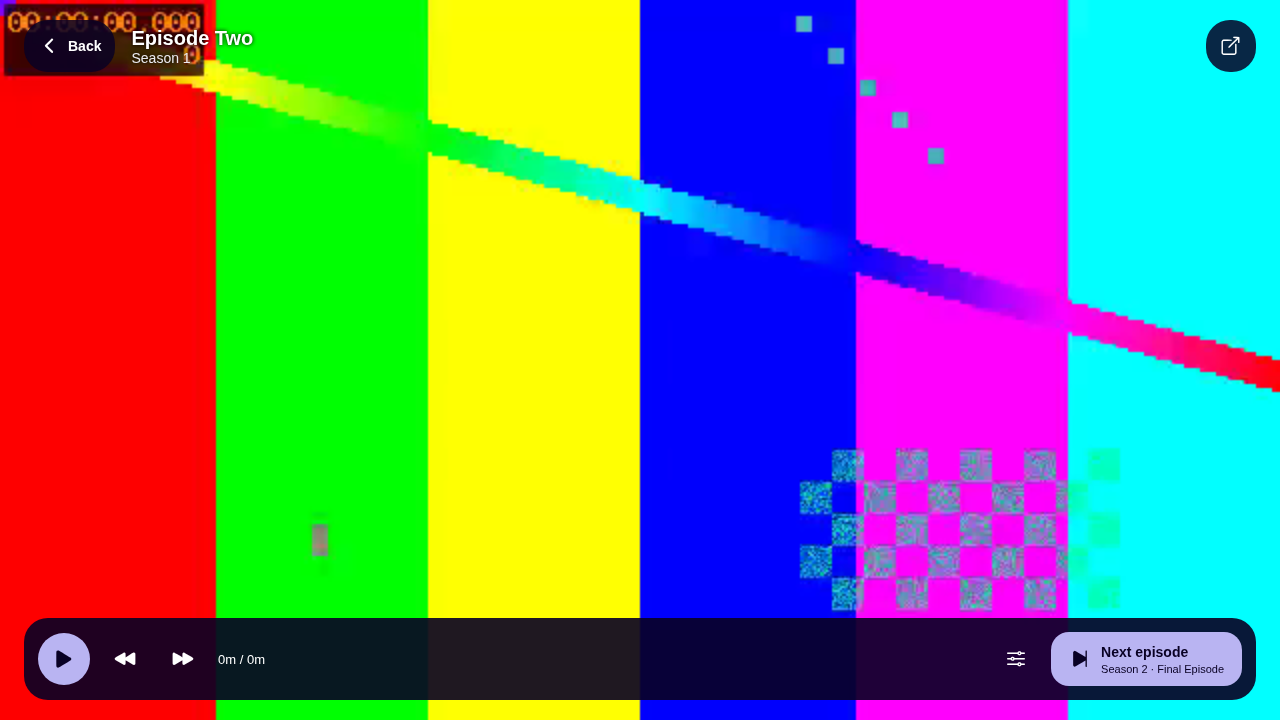
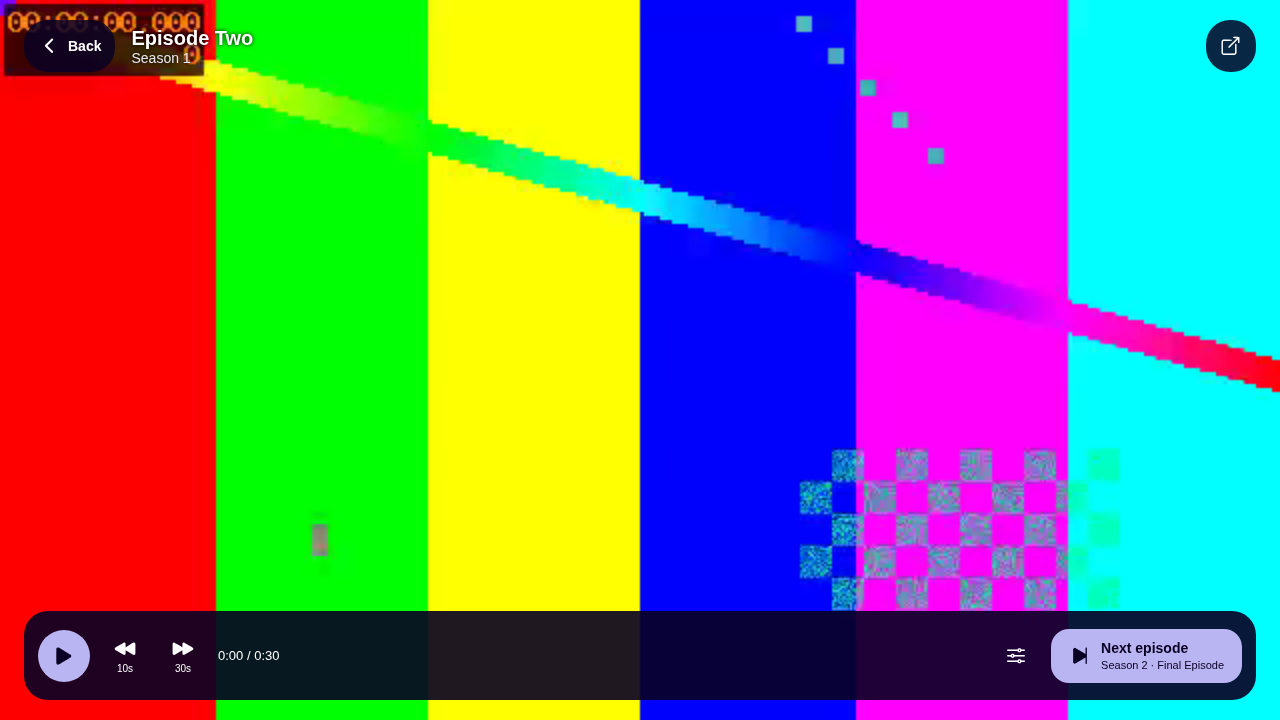
Refine fullscreen TV playback clock and seek controls

Changed region(s): [[0.0, 0.825, 1.0, 0.9778], [0.7812, 0.8861, 0.8125, 0.9167]]

diff --git a/src/Player.tsx b/src/Player.tsx
@@ -9,7 +9,7 @@ import { classifyFailure, failureMessage, RecoveryCoordinator } from './recovery
 import type { RecoveryState } from './recovery';
 import { playbackURLs, streamFormat } from './livePlayback';
 import { useSafeAreaInsets } from 'react-native-safe-area-context';
-import { timeLabel } from './activity';
+import { playbackClock } from './activity';
 import { Button, Icon, colors, u } from './ui';
 // Keep the native/video surface stable while status/format controls rerender.
 // On web, rerendering a changed src during replaceAsync can cancel the play request.
@@ -102,7 +102,7 @@ export default function Player({ item, resumeAt = 0, tracks = {}, onProgress, on
       if (!active || handoff.current) return;
       setStatus(value); clearLoadTimer();
       if (value === 'readyToPlay') {
-        if (television) setIsPlaying(player.playing);
+        if (television) { setIsPlaying(player.playing); setClock({ position: lastSnapshot.current.position, duration: Number.isFinite(player.duration) ? player.duration : 0 }); }
         coordinator.ready(); setRecovery(null);
         if (needsSeek.current && Number.isFinite(player.duration) && player.duration > 5 && !player.isLive) {
           player.currentTime = Math.max(0, Math.min(desiredSeek.current, player.duration - 5)); needsSeek.current = false;
@@ -193,9 +193,9 @@ export default function Player({ item, resumeAt = 0, tracks = {}, onProgress, on
     </View>}
     <View style={{ position: 'absolute', bottom: Math.max(insets.bottom, 20), left: 24, right: 24, padding: 14, borderRadius: 24, backgroundColor: '#090124E8', flexDirection: 'row', gap: 12, alignItems: 'center' }}>
       <Pressable hasTVPreferredFocus accessibilityRole="button" accessibilityLabel={isPlaying ? 'Pause video' : 'Play video'} disabled={failed || advancing} onPress={() => { try { if (isPlaying) player.pause(); else { if (player.duration > 0 && player.currentTime >= player.duration - .5) player.currentTime = 0; player.play(); } } catch { setTrackNotice('Couldn’t change playback. Try again.'); } }} style={{ width: 52, height: 52, borderRadius: 26, backgroundColor: colors.mint, alignItems: 'center', justifyContent: 'center' }}><Icon name={isPlaying ? 'pause' : 'play'} size={24} /></Pressable>
-      <Pressable accessibilityRole="button" accessibilityLabel="Rewind 10 seconds" disabled={status !== 'readyToPlay' || clock.duration <= 0 || advancing} onPress={() => seek(-10)} style={{ padding: 12 }}><Icon name="play-back" color="#fff" /></Pressable>
-      <Pressable accessibilityRole="button" accessibilityLabel="Forward 30 seconds" disabled={status !== 'readyToPlay' || clock.duration <= 0 || advancing} onPress={() => seek(30)} style={{ padding: 12 }}><Icon name="play-forward" color="#fff" /></Pressable>
-      <View style={{ flex: 1, gap: 4 }}><Text style={{ color: '#fff', fontSize: 13 }}>{timeLabel(clock.position)} / {timeLabel(clock.duration)}</Text>{!!trackNotice && <Text numberOfLines={2} style={{ color: '#FAE7C8', fontSize: 11 }}>{trackNotice}</Text>}</View>
+      <Pressable accessibilityRole="button" accessibilityLabel="Rewind 10 seconds" disabled={status !== 'readyToPlay' || clock.duration <= 0 || advancing} onPress={() => seek(-10)} style={{ padding: 12 }}><View style={{ alignItems: 'center', gap: 2 }}><Icon name="play-back" color="#fff" /><Text style={{ color: '#fff', fontSize: 10 }}>10s</Text></View></Pressable>
+      <Pressable accessibilityRole="button" accessibilityLabel="Forward 30 seconds" disabled={status !== 'readyToPlay' || clock.duration <= 0 || advancing} onPress={() => seek(30)} style={{ padding: 12 }}><View style={{ alignItems: 'center', gap: 2 }}><Icon name="play-forward" color="#fff" /><Text style={{ color: '#fff', fontSize: 10 }}>30s</Text></View></Pressable>
+      <View style={{ flex: 1, gap: 4 }}><Text style={{ color: '#fff', fontSize: 13 }}>{playbackClock(clock.position)} / {clock.duration > 0 ? playbackClock(clock.duration) : '—:—'}</Text>{!!trackNotice && <Text numberOfLines={2} style={{ color: '#FAE7C8', fontSize: 11 }}>{trackNotice}</Text>}</View>
       <Pressable accessibilityRole="button" accessibilityLabel="Audio and subtitles" onPress={() => setShowTracks(value => !value)} style={{ padding: 12 }}><Icon name="options-outline" color="#fff" /></Pressable>
       {nextEpisode && <Pressable testID="next-episode" accessibilityRole="button" accessibilityLabel={`Next episode: ${nextEpisode.item.group} · ${nextEpisode.item.name}`} accessibilityState={{ disabled: advancing, busy: advancing }} disabled={advancing} onPress={() => { void advanceEpisode(); }} style={{ maxWidth: '38%', minHeight: 54, paddingHorizontal: 18, paddingVertical: 10, borderRadius: 18, backgroundColor: colors.mint, flexDirection: 'row', gap: 10, alignItems: 'center' }}>
         {advancing ? <ActivityIndicator color={colors.text} /> : <Icon name="play-skip-forward" />}

diff --git a/src/activity.ts b/src/activity.ts
@@ -32,3 +32,12 @@ export function timeLabel(seconds: number): string {
   const minutes = Math.max(0, Math.floor(seconds / 60));
   return minutes >= 60 ? `${Math.floor(minutes / 60)}h ${minutes % 60}m` : `${minutes}m`;
 }
+
+/** Video controls need seconds, while the library's timeLabel stays a compact minute label. */
+export function playbackClock(seconds: number): string {
+  const total = Number.isFinite(seconds) ? Math.max(0, Math.floor(seconds)) : 0;
+  const hours = Math.floor(total / 3600);
+  const minutes = Math.floor(total / 60) % 60;
+  const remainder = String(total % 60).padStart(2, '0');
+  return hours ? `${hours}:${String(minutes).padStart(2, '0')}:${remainder}` : `${minutes}:${remainder}`;
+}
